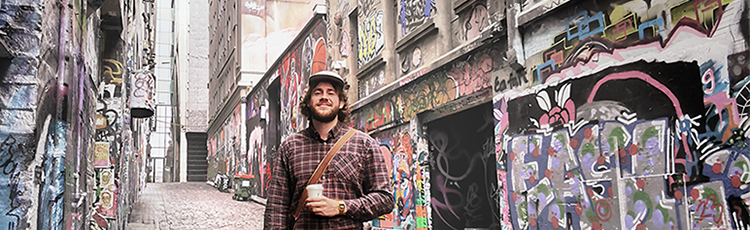
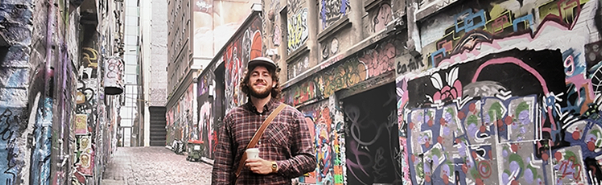
lower hero kb

diff --git a/components/Hero.tsx b/components/Hero.tsx
@@ -18,8 +18,8 @@ export const Hero = () => {
             src={HeroImage}
             alt="Dustin Hero"
             aria-label="Hero Image"
-            width={605}
-            height={186}
+            width={602}
+            height={185}
             loading="eager"
           />
         </HeroImageWrapper>
